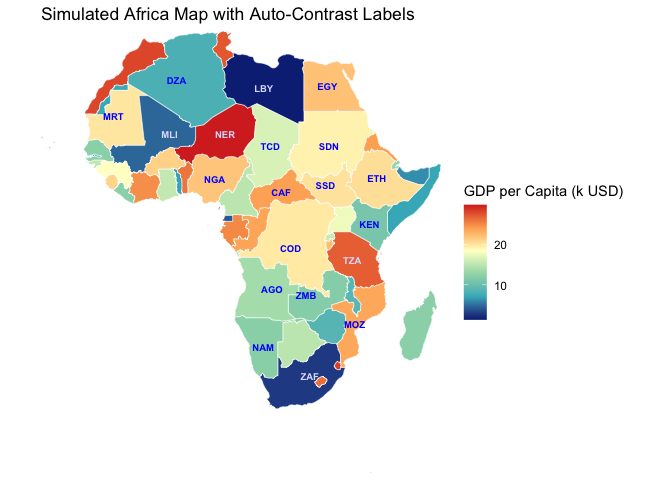
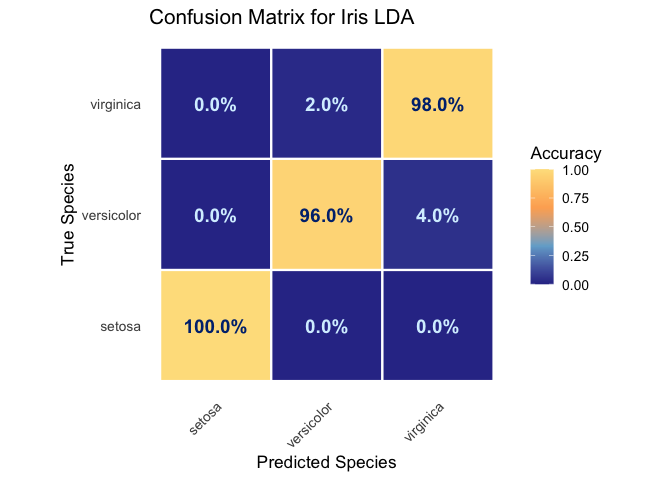
Deploying to gh-pages from @ bwanniarachchige2/ggtwotone@877ecfcea340c5bf121400c59d34a21e920130b6 🚀

diff --git a/index.html b/index.html
@@ -163,61 +163,80 @@
 <div class="section level1">
 <h1 id="additional-example">Additional Example<a class="anchor" aria-label="anchor" href="#additional-example"></a>
 </h1>
-<p>The following example illustrates automatic contrast-aware labeling on a thematic map.</p>
+<p>The following example demonstrates <code><a href="reference/geom_text_contrast.html">geom_text_contrast()</a></code> on a confusion matrix generated from a linear discriminant analysis (LDA) classifier fitted to the <code>iris</code> data. Text colours are selected automatically to maintain readability against tiles with different background colours.</p>
 <div class="sourceCode" id="cb3"><pre class="downlit sourceCode r">
-<code class="sourceCode R"><span><span class="co"># Packages</span></span>
+<code class="sourceCode R"><span><span class="kw"><a href="https://rdrr.io/r/base/library.html" class="external-link">library</a></span><span class="op">(</span><span class="va"><a href="https://dplyr.tidyverse.org" class="external-link">dplyr</a></span><span class="op">)</span></span>
 <span><span class="kw"><a href="https://rdrr.io/r/base/library.html" class="external-link">library</a></span><span class="op">(</span><span class="va"><a href="https://ggplot2.tidyverse.org" class="external-link">ggplot2</a></span><span class="op">)</span></span>
-<span><span class="kw"><a href="https://rdrr.io/r/base/library.html" class="external-link">library</a></span><span class="op">(</span><span class="va"><a href="https://dplyr.tidyverse.org" class="external-link">dplyr</a></span><span class="op">)</span></span>
-<span><span class="kw"><a href="https://rdrr.io/r/base/library.html" class="external-link">library</a></span><span class="op">(</span><span class="va"><a href="https://r-spatial.github.io/sf/" class="external-link">sf</a></span><span class="op">)</span></span>
+<span><span class="kw"><a href="https://rdrr.io/r/base/library.html" class="external-link">library</a></span><span class="op">(</span><span class="va"><a href="https://github.com/bwanniarachchige2/ggtwotone" class="external-link">ggtwotone</a></span><span class="op">)</span></span>
 <span><span class="kw"><a href="https://rdrr.io/r/base/library.html" class="external-link">library</a></span><span class="op">(</span><span class="va"><a href="https://scales.r-lib.org" class="external-link">scales</a></span><span class="op">)</span></span>
-<span><span class="kw"><a href="https://rdrr.io/r/base/library.html" class="external-link">library</a></span><span class="op">(</span><span class="va"><a href="https://docs.ropensci.org/rnaturalearth/" class="external-link">rnaturalearth</a></span><span class="op">)</span></span>
-<span><span class="kw"><a href="https://rdrr.io/r/base/library.html" class="external-link">library</a></span><span class="op">(</span><span class="va"><a href="https://docs.ropensci.org/rnaturalearthdata/" class="external-link">rnaturalearthdata</a></span><span class="op">)</span></span>
+<span><span class="kw"><a href="https://rdrr.io/r/base/library.html" class="external-link">library</a></span><span class="op">(</span><span class="va"><a href="http://www.stats.ox.ac.uk/pub/MASS4/" class="external-link">MASS</a></span><span class="op">)</span></span>
 <span></span>
-<span><span class="co"># Africa polygons</span></span>
-<span><span class="va">africa</span> <span class="op">&lt;-</span> <span class="fu">rnaturalearth</span><span class="fu">::</span><span class="fu">ne_countries</span><span class="op">(</span></span>
-<span>  continent <span class="op">=</span> <span class="st">"Africa"</span>, scale <span class="op">=</span> <span class="st">"medium"</span>, returnclass <span class="op">=</span> <span class="st">"sf"</span></span>
+<span><span class="fu"><a href="https://rdrr.io/r/base/Random.html" class="external-link">set.seed</a></span><span class="op">(</span><span class="fl">1</span><span class="op">)</span></span>
+<span></span>
+<span><span class="co"># Fit LDA classifier on iris</span></span>
+<span><span class="va">iris_lda</span> <span class="op">&lt;-</span> <span class="fu">MASS</span><span class="fu">::</span><span class="fu"><a href="https://rdrr.io/pkg/MASS/man/lda.html" class="external-link">lda</a></span><span class="op">(</span></span>
+<span>  <span class="va">Species</span> <span class="op">~</span> <span class="va">Sepal.Length</span> <span class="op">+</span> <span class="va">Sepal.Width</span> <span class="op">+</span> <span class="va">Petal.Length</span> <span class="op">+</span> <span class="va">Petal.Width</span>,</span>
+<span>  data <span class="op">=</span> <span class="va">iris</span></span>
 <span><span class="op">)</span></span>
 <span></span>
-<span><span class="co"># Simple variable (simulate GDP per capita, k USD)</span></span>
-<span><span class="fu"><a href="https://rdrr.io/r/base/Random.html" class="external-link">set.seed</a></span><span class="op">(</span><span class="fl">1</span><span class="op">)</span></span>
-<span><span class="va">africa</span><span class="op">$</span><span class="va">gdp_pc</span> <span class="op">&lt;-</span> <span class="fu"><a href="https://rdrr.io/r/stats/Uniform.html" class="external-link">runif</a></span><span class="op">(</span><span class="fu"><a href="https://rdrr.io/r/base/nrow.html" class="external-link">nrow</a></span><span class="op">(</span><span class="va">africa</span><span class="op">)</span>, min <span class="op">=</span> <span class="fl">1</span>, max <span class="op">=</span> <span class="fl">30</span><span class="op">)</span></span>
+<span><span class="va">iris_pred</span> <span class="op">&lt;-</span> <span class="fu"><a href="https://rdrr.io/r/stats/predict.html" class="external-link">predict</a></span><span class="op">(</span><span class="va">iris_lda</span><span class="op">)</span><span class="op">$</span><span class="va">class</span></span>
 <span></span>
-<span><span class="co"># Palette + per-country HEX for contrast</span></span>
-<span><span class="va">pal</span> <span class="op">&lt;-</span> <span class="fu"><a href="https://rdrr.io/r/base/c.html" class="external-link">c</a></span><span class="op">(</span><span class="st">"#0C2C84"</span>, <span class="st">"#41B6C4"</span>, <span class="st">"#A1DAB4"</span>, <span class="st">"#FFFFCC"</span>, <span class="st">"#FDAE61"</span>, <span class="st">"#D73027"</span><span class="op">)</span></span>
-<span><span class="va">col_fun</span> <span class="op">&lt;-</span> <span class="fu">scales</span><span class="fu">::</span><span class="fu"><a href="https://scales.r-lib.org/reference/col_numeric.html" class="external-link">col_numeric</a></span><span class="op">(</span>palette <span class="op">=</span> <span class="va">pal</span>,</span>
-<span>                               domain <span class="op">=</span> <span class="fu"><a href="https://rdrr.io/r/base/range.html" class="external-link">range</a></span><span class="op">(</span><span class="va">africa</span><span class="op">$</span><span class="va">gdp_pc</span>, na.rm <span class="op">=</span> <span class="cn">TRUE</span><span class="op">)</span><span class="op">)</span></span>
-<span><span class="va">africa</span><span class="op">$</span><span class="va">fill_hex</span> <span class="op">&lt;-</span> <span class="fu">col_fun</span><span class="op">(</span><span class="va">africa</span><span class="op">$</span><span class="va">gdp_pc</span><span class="op">)</span></span>
+<span><span class="co"># Build confusion matrix</span></span>
+<span><span class="va">classes</span> <span class="op">&lt;-</span> <span class="fu"><a href="https://rdrr.io/r/base/levels.html" class="external-link">levels</a></span><span class="op">(</span><span class="va">iris</span><span class="op">$</span><span class="va">Species</span><span class="op">)</span></span>
 <span></span>
-<span><span class="co"># Label positions</span></span>
-<span><span class="va">labels</span> <span class="op">&lt;-</span> <span class="va">africa</span> <span class="op"><a href="https://magrittr.tidyverse.org/reference/pipe.html" class="external-link">%&gt;%</a></span></span>
+<span><span class="va">cm</span> <span class="op">&lt;-</span> <span class="fu"><a href="https://rdrr.io/r/base/table.html" class="external-link">table</a></span><span class="op">(</span></span>
+<span>  True <span class="op">=</span> <span class="va">iris</span><span class="op">$</span><span class="va">Species</span>,</span>
+<span>  Predicted <span class="op">=</span> <span class="va">iris_pred</span></span>
+<span><span class="op">)</span> <span class="op">|&gt;</span></span>
+<span>  <span class="fu"><a href="https://rdrr.io/r/base/as.data.frame.html" class="external-link">as.data.frame</a></span><span class="op">(</span><span class="op">)</span></span>
+<span></span>
+<span><span class="va">cm</span> <span class="op">&lt;-</span> <span class="va">cm</span> <span class="op">|&gt;</span></span>
+<span>  <span class="fu"><a href="https://dplyr.tidyverse.org/reference/group_by.html" class="external-link">group_by</a></span><span class="op">(</span><span class="va">True</span><span class="op">)</span> <span class="op">|&gt;</span></span>
 <span>  <span class="fu"><a href="https://dplyr.tidyverse.org/reference/mutate.html" class="external-link">mutate</a></span><span class="op">(</span></span>
-<span>    point <span class="op">=</span> <span class="fu">sf</span><span class="fu">::</span><span class="fu">st_point_on_surface</span><span class="op">(</span><span class="va">geometry</span><span class="op">)</span>,</span>
-<span>    lon   <span class="op">=</span> <span class="fu">sf</span><span class="fu">::</span><span class="fu">st_coordinates</span><span class="op">(</span><span class="va">point</span><span class="op">)</span><span class="op">[</span>, <span class="fl">1</span><span class="op">]</span>,</span>
-<span>    lat   <span class="op">=</span> <span class="fu">sf</span><span class="fu">::</span><span class="fu">st_coordinates</span><span class="op">(</span><span class="va">point</span><span class="op">)</span><span class="op">[</span>, <span class="fl">2</span><span class="op">]</span>,</span>
-<span>    area  <span class="op">=</span> <span class="fu"><a href="https://rdrr.io/r/base/numeric.html" class="external-link">as.numeric</a></span><span class="op">(</span><span class="fu">sf</span><span class="fu">::</span><span class="fu">st_area</span><span class="op">(</span><span class="va">geometry</span><span class="op">)</span><span class="op">)</span>,</span>
-<span>    code  <span class="op">=</span> <span class="va">iso_a3</span></span>
-<span>  <span class="op">)</span> <span class="op"><a href="https://magrittr.tidyverse.org/reference/pipe.html" class="external-link">%&gt;%</a></span></span>
-<span>  <span class="fu">dplyr</span><span class="fu">::</span><span class="fu"><a href="https://dplyr.tidyverse.org/reference/slice.html" class="external-link">slice_max</a></span><span class="op">(</span><span class="va">area</span>, n <span class="op">=</span> <span class="fl">20</span><span class="op">)</span></span>
+<span>    Accuracy <span class="op">=</span> <span class="va">Freq</span> <span class="op">/</span> <span class="fu"><a href="https://rdrr.io/r/base/sum.html" class="external-link">sum</a></span><span class="op">(</span><span class="va">Freq</span><span class="op">)</span>,</span>
+<span>    label <span class="op">=</span> <span class="fu"><a href="https://rdrr.io/r/base/sprintf.html" class="external-link">sprintf</a></span><span class="op">(</span><span class="st">"%.1f%%"</span>, <span class="fl">100</span> <span class="op">*</span> <span class="va">Accuracy</span><span class="op">)</span></span>
+<span>  <span class="op">)</span></span>
+<span></span>
+<span><span class="co"># Palette and background colors for text contrast</span></span>
+<span><span class="va">pal</span> <span class="op">&lt;-</span> <span class="fu"><a href="https://rdrr.io/r/base/c.html" class="external-link">c</a></span><span class="op">(</span><span class="st">"#313695"</span>, <span class="st">"#74add1"</span>, <span class="st">"#fdae61"</span>, <span class="st">"#fee08b"</span><span class="op">)</span></span>
+<span></span>
+<span><span class="va">col_fun</span> <span class="op">&lt;-</span> <span class="fu">scales</span><span class="fu">::</span><span class="fu"><a href="https://scales.r-lib.org/reference/col_numeric.html" class="external-link">col_numeric</a></span><span class="op">(</span></span>
+<span>  palette <span class="op">=</span> <span class="va">pal</span>,</span>
+<span>  domain <span class="op">=</span> <span class="fu"><a href="https://rdrr.io/r/base/c.html" class="external-link">c</a></span><span class="op">(</span><span class="fl">0</span>, <span class="fl">1</span><span class="op">)</span></span>
+<span><span class="op">)</span></span>
+<span></span>
+<span><span class="va">cm</span><span class="op">$</span><span class="va">fill_hex</span> <span class="op">&lt;-</span> <span class="fu">col_fun</span><span class="op">(</span><span class="va">cm</span><span class="op">$</span><span class="va">Accuracy</span><span class="op">)</span></span>
 <span></span>
 <span><span class="co"># Plot</span></span>
-<span><span class="fu"><a href="https://ggplot2.tidyverse.org/reference/ggplot.html" class="external-link">ggplot</a></span><span class="op">(</span><span class="va">africa</span><span class="op">)</span> <span class="op">+</span></span>
-<span>  <span class="fu"><a href="https://ggplot2.tidyverse.org/reference/ggsf.html" class="external-link">geom_sf</a></span><span class="op">(</span><span class="fu"><a href="https://ggplot2.tidyverse.org/reference/aes.html" class="external-link">aes</a></span><span class="op">(</span>fill <span class="op">=</span> <span class="va">gdp_pc</span><span class="op">)</span>, color <span class="op">=</span> <span class="st">"white"</span>, linewidth <span class="op">=</span> <span class="fl">0.2</span><span class="op">)</span> <span class="op">+</span></span>
+<span><span class="fu"><a href="https://ggplot2.tidyverse.org/reference/ggplot.html" class="external-link">ggplot</a></span><span class="op">(</span><span class="va">cm</span>, <span class="fu"><a href="https://ggplot2.tidyverse.org/reference/aes.html" class="external-link">aes</a></span><span class="op">(</span><span class="va">Predicted</span>, <span class="va">True</span><span class="op">)</span><span class="op">)</span> <span class="op">+</span></span>
+<span>  <span class="fu"><a href="https://ggplot2.tidyverse.org/reference/geom_tile.html" class="external-link">geom_tile</a></span><span class="op">(</span><span class="fu"><a href="https://ggplot2.tidyverse.org/reference/aes.html" class="external-link">aes</a></span><span class="op">(</span>fill <span class="op">=</span> <span class="va">Accuracy</span><span class="op">)</span>, color <span class="op">=</span> <span class="st">"white"</span>, linewidth <span class="op">=</span> <span class="fl">0.8</span><span class="op">)</span> <span class="op">+</span></span>
 <span>  <span class="fu"><a href="reference/geom_text_contrast.html">geom_text_contrast</a></span><span class="op">(</span></span>
-<span>    data <span class="op">=</span> <span class="va">labels</span>,</span>
-<span>    <span class="fu"><a href="https://ggplot2.tidyverse.org/reference/aes.html" class="external-link">aes</a></span><span class="op">(</span>x <span class="op">=</span> <span class="va">lon</span>, y <span class="op">=</span> <span class="va">lat</span>, label <span class="op">=</span> <span class="va">code</span><span class="op">)</span>,</span>
-<span>    inherit.aes <span class="op">=</span> <span class="cn">FALSE</span>,</span>
-<span>    background  <span class="op">=</span> <span class="va">labels</span><span class="op">$</span><span class="va">fill_hex</span>,</span>
-<span>    base_colour <span class="op">=</span> <span class="st">"blue"</span>,</span>
-<span>    method <span class="op">=</span> <span class="st">"auto"</span>, contrast <span class="op">=</span> <span class="fl">4.5</span>,</span>
-<span>    size <span class="op">=</span> <span class="fl">2.5</span>, fontface <span class="op">=</span> <span class="st">"bold"</span></span>
+<span>    <span class="fu"><a href="https://ggplot2.tidyverse.org/reference/aes.html" class="external-link">aes</a></span><span class="op">(</span>label <span class="op">=</span> <span class="va">label</span><span class="op">)</span>,</span>
+<span>    background <span class="op">=</span> <span class="va">cm</span><span class="op">$</span><span class="va">fill_hex</span>,</span>
+<span>    base_colour <span class="op">=</span> <span class="st">"#004488"</span>,</span>
+<span>    method <span class="op">=</span> <span class="st">"auto"</span>,</span>
+<span>    contrast <span class="op">=</span> <span class="fl">4.5</span>,</span>
+<span>    size <span class="op">=</span> <span class="fl">5</span>,</span>
+<span>    fontface <span class="op">=</span> <span class="st">"bold"</span></span>
 <span>  <span class="op">)</span> <span class="op">+</span></span>
-<span>  <span class="fu"><a href="https://ggplot2.tidyverse.org/reference/scale_gradient.html" class="external-link">scale_fill_gradientn</a></span><span class="op">(</span>colours <span class="op">=</span> <span class="va">pal</span>, name <span class="op">=</span> <span class="st">"GDP per Capita (k USD)"</span><span class="op">)</span> <span class="op">+</span></span>
-<span>  <span class="fu"><a href="https://ggplot2.tidyverse.org/reference/ggsf.html" class="external-link">coord_sf</a></span><span class="op">(</span>expand <span class="op">=</span> <span class="cn">FALSE</span><span class="op">)</span> <span class="op">+</span></span>
-<span>  <span class="fu"><a href="https://ggplot2.tidyverse.org/reference/labs.html" class="external-link">labs</a></span><span class="op">(</span>title <span class="op">=</span> <span class="st">"Simulated Africa Map with Auto-Contrast Labels"</span>, x <span class="op">=</span> <span class="cn">NULL</span>, y <span class="op">=</span> <span class="cn">NULL</span><span class="op">)</span> <span class="op">+</span></span>
-<span>  <span class="fu"><a href="https://ggplot2.tidyverse.org/reference/ggtheme.html" class="external-link">theme_minimal</a></span><span class="op">(</span>base_size <span class="op">=</span> <span class="fl">11</span><span class="op">)</span> <span class="op">+</span></span>
-<span>  <span class="fu"><a href="https://ggplot2.tidyverse.org/reference/theme.html" class="external-link">theme</a></span><span class="op">(</span>panel.grid <span class="op">=</span> <span class="fu"><a href="https://ggplot2.tidyverse.org/reference/element.html" class="external-link">element_blank</a></span><span class="op">(</span><span class="op">)</span>, axis.text <span class="op">=</span> <span class="fu"><a href="https://ggplot2.tidyverse.org/reference/element.html" class="external-link">element_blank</a></span><span class="op">(</span><span class="op">)</span><span class="op">)</span></span></code></pre></div>
+<span>  <span class="fu"><a href="https://ggplot2.tidyverse.org/reference/scale_gradient.html" class="external-link">scale_fill_gradientn</a></span><span class="op">(</span></span>
+<span>    colours <span class="op">=</span> <span class="va">pal</span>,</span>
+<span>    limits <span class="op">=</span> <span class="fu"><a href="https://rdrr.io/r/base/c.html" class="external-link">c</a></span><span class="op">(</span><span class="fl">0</span>, <span class="fl">1</span><span class="op">)</span>,</span>
+<span>    name <span class="op">=</span> <span class="st">"Accuracy"</span></span>
+<span>  <span class="op">)</span> <span class="op">+</span></span>
+<span>  <span class="fu"><a href="https://ggplot2.tidyverse.org/reference/coord_fixed.html" class="external-link">coord_fixed</a></span><span class="op">(</span><span class="op">)</span> <span class="op">+</span></span>
+<span>  <span class="fu"><a href="https://ggplot2.tidyverse.org/reference/labs.html" class="external-link">labs</a></span><span class="op">(</span></span>
+<span>    title <span class="op">=</span> <span class="st">"Confusion Matrix for Iris LDA"</span>,</span>
+<span>    x <span class="op">=</span> <span class="st">"Predicted Species"</span>,</span>
+<span>    y <span class="op">=</span> <span class="st">"True Species"</span></span>
+<span>  <span class="op">)</span> <span class="op">+</span></span>
+<span>  <span class="fu"><a href="https://ggplot2.tidyverse.org/reference/ggtheme.html" class="external-link">theme_minimal</a></span><span class="op">(</span>base_size <span class="op">=</span> <span class="fl">13</span><span class="op">)</span> <span class="op">+</span></span>
+<span>  <span class="fu"><a href="https://ggplot2.tidyverse.org/reference/theme.html" class="external-link">theme</a></span><span class="op">(</span></span>
+<span>    panel.grid <span class="op">=</span> <span class="fu"><a href="https://ggplot2.tidyverse.org/reference/element.html" class="external-link">element_blank</a></span><span class="op">(</span><span class="op">)</span>,</span>
+<span>    axis.text.x <span class="op">=</span> <span class="fu"><a href="https://ggplot2.tidyverse.org/reference/element.html" class="external-link">element_text</a></span><span class="op">(</span>angle <span class="op">=</span> <span class="fl">45</span>, hjust <span class="op">=</span> <span class="fl">1</span><span class="op">)</span></span>
+<span>  <span class="op">)</span></span></code></pre></div>
 <p><img src="reference/figures/README-example2-1.png" alt="" width="100%"></p>
-<p>Country labels automatically adjust their foreground color according to the underlying fill color, improving readability across the map.</p>
+<p><code><a href="reference/geom_text_contrast.html">geom_text_contrast()</a></code> automatically selects a readable foreground color for each label based on the tile background, improving readability while preserving the underlying color scale.</p>
 <div class="section level2">
 <h2 id="citation">Citation<a class="anchor" aria-label="anchor" href="#citation"></a>
 </h2>
@@ -260,8 +279,8 @@
 <div class="developers">
 <h2 data-toc-skip>Developers</h2>
 <ul class="list-unstyled">
-<li>Beenu Sareena <br><small class="roles"> Author, maintainer </small>   </li>
-<li>Heike Hofmann <br><small class="roles"> Author </small>   </li>
+<li>Beenu Sareena <br><small class="roles"> Author, maintainer </small> <a href="https://orcid.org/0009-0002-7611-5499" target="orcid.widget" aria-label="ORCID" class="external-link"><span class="fab fa-orcid orcid" aria-hidden="true"></span></a>  </li>
+<li>Heike Hofmann <br><small class="roles"> Author </small> <a href="https://orcid.org/0000-0001-6216-5183" target="orcid.widget" aria-label="ORCID" class="external-link"><span class="fab fa-orcid orcid" aria-hidden="true"></span></a>  </li>
 </ul>
 </div>
 

diff --git a/reference/geom_text_contrast.html b/reference/geom_text_contrast.html
@@ -1,5 +1,7 @@
 <!DOCTYPE html>
-<!-- Generated by pkgdown: do not edit by hand --><html lang="en"><head><meta http-equiv="Content-Type" content="text/html; charset=UTF-8"><meta charset="utf-8"><meta http-equiv="X-UA-Compatible" content="IE=edge"><meta name="viewport" content="width=device-width, initial-scale=1, shrink-to-fit=no"><title>Contrast-Aware Text Geom — geom_text_contrast • ggtwotone</title><script src="../deps/jquery-3.6.0/jquery-3.6.0.min.js"></script><meta name="viewport" content="width=device-width, initial-scale=1, shrink-to-fit=no"><link href="../deps/bootstrap-5.3.8/bootstrap.min.css" rel="stylesheet"><script src="../deps/bootstrap-5.3.8/bootstrap.bundle.min.js"></script><link href="../deps/font-awesome-6.5.2/css/all.min.css" rel="stylesheet"><link href="../deps/font-awesome-6.5.2/css/v4-shims.min.css" rel="stylesheet"><script src="../deps/headroom-0.11.0/headroom.min.js"></script><script src="../deps/headroom-0.11.0/jQuery.headroom.min.js"></script><script src="../deps/bootstrap-toc-1.0.1/bootstrap-toc.min.js"></script><script src="../deps/clipboard.js-2.0.11/clipboard.min.js"></script><script src="../deps/search-1.0.0/autocomplete.jquery.min.js"></script><script src="../deps/search-1.0.0/fuse.min.js"></script><script src="../deps/search-1.0.0/mark.min.js"></script><!-- pkgdown --><script src="../pkgdown.js"></script><meta property="og:title" content="Contrast-Aware Text Geom — geom_text_contrast"><meta name="description" content="Automatically adjusts text colour for readability on varying background colours using WCAG or APCA contrast."><meta property="og:description" content="Automatically adjusts text colour for readability on varying background colours using WCAG or APCA contrast."></head><body>
+<!-- Generated by pkgdown: do not edit by hand --><html lang="en"><head><meta http-equiv="Content-Type" content="text/html; charset=UTF-8"><meta charset="utf-8"><meta http-equiv="X-UA-Compatible" content="IE=edge"><meta name="viewport" content="width=device-width, initial-scale=1, shrink-to-fit=no"><title>Contrast-Aware Text Geom — geom_text_contrast • ggtwotone</title><script src="../deps/jquery-3.6.0/jquery-3.6.0.min.js"></script><meta name="viewport" content="width=device-width, initial-scale=1, shrink-to-fit=no"><link href="../deps/bootstrap-5.3.8/bootstrap.min.css" rel="stylesheet"><script src="../deps/bootstrap-5.3.8/bootstrap.bundle.min.js"></script><link href="../deps/font-awesome-6.5.2/css/all.min.css" rel="stylesheet"><link href="../deps/font-awesome-6.5.2/css/v4-shims.min.css" rel="stylesheet"><script src="../deps/headroom-0.11.0/headroom.min.js"></script><script src="../deps/headroom-0.11.0/jQuery.headroom.min.js"></script><script src="../deps/bootstrap-toc-1.0.1/bootstrap-toc.min.js"></script><script src="../deps/clipboard.js-2.0.11/clipboard.min.js"></script><script src="../deps/search-1.0.0/autocomplete.jquery.min.js"></script><script src="../deps/search-1.0.0/fuse.min.js"></script><script src="../deps/search-1.0.0/mark.min.js"></script><!-- pkgdown --><script src="../pkgdown.js"></script><meta property="og:title" content="Contrast-Aware Text Geom — geom_text_contrast"><meta name="description" content="Automatically adjusts text colour for readability on varying background
+colours using WCAG or APCA contrast."><meta property="og:description" content="Automatically adjusts text colour for readability on varying background
+colours using WCAG or APCA contrast."></head><body>
     <a href="#main" class="visually-hidden-focusable">Skip to contents</a>
 
 
@@ -35,7 +37,8 @@
     </div>
 
     <div class="ref-description section level2">
-    <p>Automatically adjusts text colour for readability on varying background colours using WCAG or APCA contrast.</p>
+    <p>Automatically adjusts text colour for readability on varying background
+colours using WCAG or APCA contrast.</p>
     </div>
 
     <div class="section level2">
@@ -140,7 +143,8 @@ lists which parameters it can accept.</p></li>
 
 
 <dt id="arg-contrast">contrast<a class="anchor" aria-label="anchor" href="#arg-contrast"></a></dt>
-<dd><p>Threshold to ensure between text and background (defaults to 4.5).</p></dd>
+<dd><p>Threshold to ensure between text and background
+(defaults to 4.5).</p></dd>
 
 
 <dt id="arg-base-colour">base_colour<a class="anchor" aria-label="anchor" href="#arg-base-colour"></a></dt>
@@ -170,7 +174,8 @@ the default plot specification, e.g. <code><a href="https://ggplot2.tidyverse.or
 
 
 <dt id="arg-background">background<a class="anchor" aria-label="anchor" href="#arg-background"></a></dt>
-<dd><p>A character vector of background fill colours (hex codes), used for contrast computation.</p></dd>
+<dd><p>A character vector of background fill colours (hex codes),
+used for contrast computation.</p></dd>
 
 </dl></div>
 
@@ -210,7 +215,7 @@ the default plot specification, e.g. <code><a href="https://ggplot2.tidyverse.or
 <span class="r-in"><span><span class="kw"><a href="https://rdrr.io/r/base/library.html" class="external-link">library</a></span><span class="op">(</span><span class="va"><a href="https://scales.r-lib.org" class="external-link">scales</a></span><span class="op">)</span></span></span>
 <span class="r-in"><span></span></span>
 <span class="r-in"><span><span class="fu"><a href="https://rdrr.io/r/base/Random.html" class="external-link">set.seed</a></span><span class="op">(</span><span class="fl">1</span><span class="op">)</span></span></span>
-<span class="r-in"><span><span class="va">classes</span> <span class="op">&lt;-</span><span class="fu"><a href="https://rdrr.io/r/base/c.html" class="external-link">c</a></span><span class="op">(</span><span class="st">"Cat"</span>, <span class="st">"Dog"</span>, <span class="st">"Rabit"</span><span class="op">)</span></span></span>
+<span class="r-in"><span><span class="va">classes</span> <span class="op">&lt;-</span> <span class="fu"><a href="https://rdrr.io/r/base/c.html" class="external-link">c</a></span><span class="op">(</span><span class="st">"Cat"</span>, <span class="st">"Dog"</span>, <span class="st">"Rabit"</span><span class="op">)</span></span></span>
 <span class="r-in"><span><span class="va">cm</span> <span class="op">&lt;-</span> <span class="fu"><a href="https://rdrr.io/r/base/expand.grid.html" class="external-link">expand.grid</a></span><span class="op">(</span>True <span class="op">=</span> <span class="va">classes</span>, Predicted <span class="op">=</span> <span class="va">classes</span><span class="op">)</span></span></span>
 <span class="r-in"><span><span class="va">cm</span><span class="op">$</span><span class="va">Count</span> <span class="op">&lt;-</span> <span class="fu"><a href="https://rdrr.io/r/base/sample.html" class="external-link">sample</a></span><span class="op">(</span><span class="fl">5</span><span class="op">:</span><span class="fl">200</span>, size <span class="op">=</span> <span class="fu"><a href="https://rdrr.io/r/base/nrow.html" class="external-link">nrow</a></span><span class="op">(</span><span class="va">cm</span><span class="op">)</span>, replace <span class="op">=</span> <span class="cn">TRUE</span><span class="op">)</span></span></span>
 <span class="r-in"><span></span></span>
@@ -226,7 +231,7 @@ the default plot specification, e.g. <code><a href="https://ggplot2.tidyverse.or
 <span class="r-in"><span></span></span>
 <span class="r-in"><span><span class="fu"><a href="https://ggplot2.tidyverse.org/reference/ggplot.html" class="external-link">ggplot</a></span><span class="op">(</span><span class="va">cm</span>, <span class="fu"><a href="https://ggplot2.tidyverse.org/reference/aes.html" class="external-link">aes</a></span><span class="op">(</span><span class="va">Predicted</span>, <span class="va">True</span><span class="op">)</span><span class="op">)</span> <span class="op">+</span></span></span>
 <span class="r-in"><span>  <span class="fu"><a href="https://ggplot2.tidyverse.org/reference/geom_tile.html" class="external-link">geom_tile</a></span><span class="op">(</span><span class="fu"><a href="https://ggplot2.tidyverse.org/reference/aes.html" class="external-link">aes</a></span><span class="op">(</span>fill <span class="op">=</span> <span class="va">Accuracy</span><span class="op">)</span>, color <span class="op">=</span> <span class="st">"white"</span>, linewidth <span class="op">=</span> <span class="fl">0.8</span><span class="op">)</span> <span class="op">+</span></span></span>
-<span class="r-in"><span>    <span class="fu">geom_text_contrast</span><span class="op">(</span></span></span>
+<span class="r-in"><span>  <span class="fu">geom_text_contrast</span><span class="op">(</span></span></span>
 <span class="r-in"><span>    <span class="fu"><a href="https://ggplot2.tidyverse.org/reference/aes.html" class="external-link">aes</a></span><span class="op">(</span>label <span class="op">=</span> <span class="va">label</span><span class="op">)</span>,</span></span>
 <span class="r-in"><span>    background <span class="op">=</span> <span class="va">cm</span><span class="op">$</span><span class="va">fill_hex</span>,</span></span>
 <span class="r-in"><span>    base_colour <span class="op">=</span> <span class="st">"#004488"</span>,</span></span>

diff --git a/authors.html b/authors.html
@@ -36,11 +36,11 @@
       <h2>Authors</h2>
 
       <ul class="list-unstyled"><li>
-          <p><strong>Beenu Sareena</strong>. Author, maintainer.
+          <p><strong>Beenu Sareena</strong>. Author, maintainer. <a href="https://orcid.org/0009-0002-7611-5499" target="orcid.widget" aria-label="ORCID" class="external-link"><span class="fab fa-orcid orcid" aria-hidden="true"></span></a>
           </p>
         </li>
         <li>
-          <p><strong>Heike Hofmann</strong>. Author.
+          <p><strong>Heike Hofmann</strong>. Author. <a href="https://orcid.org/0000-0001-6216-5183" target="orcid.widget" aria-label="ORCID" class="external-link"><span class="fab fa-orcid orcid" aria-hidden="true"></span></a>
           </p>
         </li>
       </ul></div>

diff --git a/reference/highlight_colors.html b/reference/highlight_colors.html
@@ -194,7 +194,7 @@ an <code>info</code> attribute.</p>
 (1) sampling HCL colors (global or biased),
 (2) filtering by WCAG/APCA contrast vs <code>background</code>
 (and optionally vs <code>base_color</code>),
-(3) selecting a maximally separated subset by ΔE2000 and minimum hue
+(3) selecting a maximally separated subset by \(\Delta E_{2000}\) and minimum hue
 spacing.</p>
 <p>Set <code>contrast_base = 0</code> to ignore base contrast
 (keeps only background contrast).

diff --git a/index.md b/index.md
@@ -122,68 +122,92 @@ background, while labels automatically adapt to maintain contrast.
 
 # Additional Example
 
-The following example illustrates automatic contrast-aware labeling on a
-thematic map.
+The following example demonstrates
+[`geom_text_contrast()`](reference/geom_text_contrast.md) on a confusion
+matrix generated from a linear discriminant analysis (LDA) classifier
+fitted to the `iris` data. Text colours are selected automatically to
+maintain readability against tiles with different background colours.
 
 ``` r
 
-# Packages
-library(ggplot2)
 library(dplyr)
-library(sf)
+library(ggplot2)
+library(ggtwotone)
 library(scales)
-library(rnaturalearth)
-library(rnaturalearthdata)
+library(MASS)
 
-# Africa polygons
-africa <- rnaturalearth::ne_countries(
-  continent = "Africa", scale = "medium", returnclass = "sf"
+set.seed(1)
+
+# Fit LDA classifier on iris
+iris_lda <- MASS::lda(
+  Species ~ Sepal.Length + Sepal.Width + Petal.Length + Petal.Width,
+  data = iris
 )
 
-# Simple variable (simulate GDP per capita, k USD)
-set.seed(1)
-africa$gdp_pc <- runif(nrow(africa), min = 1, max = 30)
+iris_pred <- predict(iris_lda)$class
 
-# Palette + per-country HEX for contrast
-pal <- c("#0C2C84", "#41B6C4", "#A1DAB4", "#FFFFCC", "#FDAE61", "#D73027")
-col_fun <- scales::col_numeric(palette = pal,
-                               domain = range(africa$gdp_pc, na.rm = TRUE))
-africa$fill_hex <- col_fun(africa$gdp_pc)
+# Build confusion matrix
+classes <- levels(iris$Species)
 
-# Label positions
-labels <- africa %>%
+cm <- table(
+  True = iris$Species,
+  Predicted = iris_pred
+) |>
+  as.data.frame()
+
+cm <- cm |>
+  group_by(True) |>
   mutate(
-    point = sf::st_point_on_surface(geometry),
-    lon   = sf::st_coordinates(point)[, 1],
-    lat   = sf::st_coordinates(point)[, 2],
-    area  = as.numeric(sf::st_area(geometry)),
-    code  = iso_a3
-  ) %>%
-  dplyr::slice_max(area, n = 20)
+    Accuracy = Freq / sum(Freq),
+    label = sprintf("%.1f%%", 100 * Accuracy)
+  )
+
+# Palette and background colors for text contrast
+pal <- c("#313695", "#74add1", "#fdae61", "#fee08b")
+
+col_fun <- scales::col_numeric(
+  palette = pal,
+  domain = c(0, 1)
+)
+
+cm$fill_hex <- col_fun(cm$Accuracy)
 
 # Plot
-ggplot(africa) +
-  geom_sf(aes(fill = gdp_pc), color = "white", linewidth = 0.2) +
+ggplot(cm, aes(Predicted, True)) +
+  geom_tile(aes(fill = Accuracy), color = "white", linewidth = 0.8) +
   geom_text_contrast(
-    data = labels,
-    aes(x = lon, y = lat, label = code),
-    inherit.aes = FALSE,
-    background  = labels$fill_hex,
-    base_colour = "blue",
-    method = "auto", contrast = 4.5,
-    size = 2.5, fontface = "bold"
+    aes(label = label),
+    background = cm$fill_hex,
+    base_colour = "#004488",
+    method = "auto",
+    contrast = 4.5,
+    size = 5,
+    fontface = "bold"
   ) +
-  scale_fill_gradientn(colours = pal, name = "GDP per Capita (k USD)") +
-  coord_sf(expand = FALSE) +
-  labs(title = "Simulated Africa Map with Auto-Contrast Labels", x = NULL, y = NULL) +
-  theme_minimal(base_size = 11) +
-  theme(panel.grid = element_blank(), axis.text = element_blank())
+  scale_fill_gradientn(
+    colours = pal,
+    limits = c(0, 1),
+    name = "Accuracy"
+  ) +
+  coord_fixed() +
+  labs(
+    title = "Confusion Matrix for Iris LDA",
+    x = "Predicted Species",
+    y = "True Species"
+  ) +
+  theme_minimal(base_size = 13) +
+  theme(
+    panel.grid = element_blank(),
+    axis.text.x = element_text(angle = 45, hjust = 1)
+  )
 ```
 
 ![](reference/figures/README-example2-1.png)
 
-Country labels automatically adjust their foreground color according to
-the underlying fill color, improving readability across the map.
+[`geom_text_contrast()`](reference/geom_text_contrast.md) automatically
+selects a readable foreground color for each label based on the tile
+background, improving readability while preserving the underlying color
+scale.
 
 ## Citation
 

diff --git a/reference/geom_text_contrast.md b/reference/geom_text_contrast.md
@@ -204,7 +204,7 @@ library(dplyr)
 library(scales)
 
 set.seed(1)
-classes <-c("Cat", "Dog", "Rabit")
+classes <- c("Cat", "Dog", "Rabit")
 cm <- expand.grid(True = classes, Predicted = classes)
 cm$Count <- sample(5:200, size = nrow(cm), replace = TRUE)
 
@@ -220,7 +220,7 @@ cm$label <- sprintf("%.1f%%", 100 * cm$Accuracy)
 
 ggplot(cm, aes(Predicted, True)) +
   geom_tile(aes(fill = Accuracy), color = "white", linewidth = 0.8) +
-    geom_text_contrast(
+  geom_text_contrast(
     aes(label = label),
     background = cm$fill_hex,
     base_colour = "#004488",

diff --git a/reference/highlight_colors.md b/reference/highlight_colors.md
@@ -138,8 +138,8 @@ Character vector of hex colors (length \<= n) with an `info` attribute.
 
 Creates n colors by: (1) sampling HCL colors (global or biased), (2)
 filtering by WCAG/APCA contrast vs `background` (and optionally vs
-`base_color`), (3) selecting a maximally separated subset by ΔE2000 and
-minimum hue spacing.
+`base_color`), (3) selecting a maximally separated subset by \\\Delta
+E\_{2000}\\ and minimum hue spacing.
 
 Set `contrast_base = 0` to ignore base contrast (keeps only background
 contrast). Use `hue_targets = "anchored"` to sample around `base_color`

diff --git a/authors.md b/authors.md
@@ -3,8 +3,9 @@
 ## Authors
 
 - **Beenu Sareena**. Author, maintainer.
+  [](https://orcid.org/0009-0002-7611-5499)
 
-- **Heike Hofmann**. Author.
+- **Heike Hofmann**. Author. [](https://orcid.org/0000-0001-6216-5183)
 
 ## Citation
 